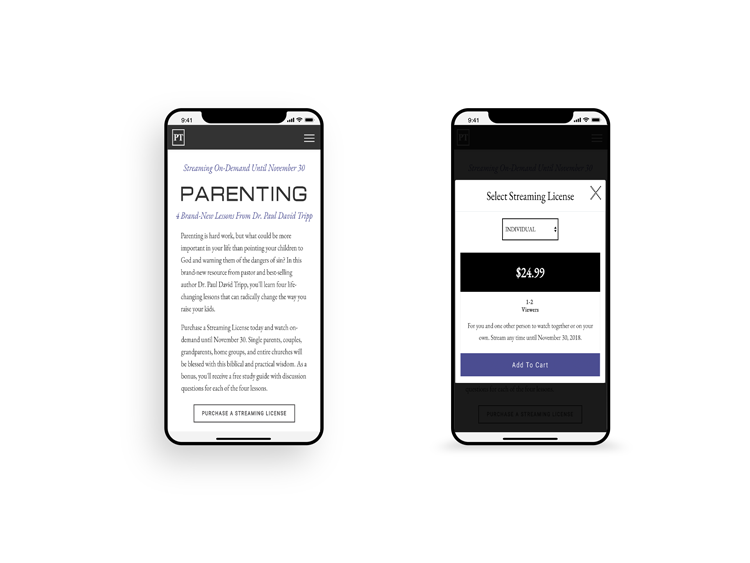
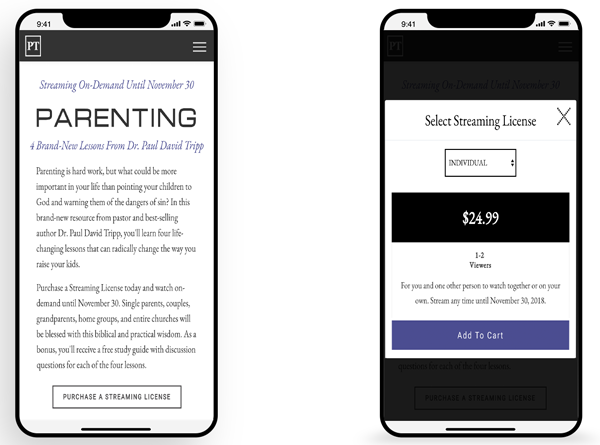
finished responsiveness, added cg work page

diff --git a/style.css b/style.css
@@ -276,7 +276,7 @@ Mobile Menu
     top: 0;
     left: 0;
     width: 100%;
-    height: 60px;
+    /* height: 60px; */
     z-index: 3;
     overflow: hidden;
   }
@@ -425,6 +425,7 @@ Mobile Menu
 #work h2 {
   font-family: 'Lora', serif;
   font-size: 20px;
+  margin-top: 10px;
 }
 
 /* #work .left {
@@ -562,14 +563,14 @@ Mobile Menu
 
 /* PT Page CSS */
 #pt-hero {
-  height: 900px;
+  height: 500px;
   background-image: url("img/pt-devices.png");
   background-position: top;
   background-size: contain;
   background-repeat: no-repeat;
   background-attachment: fixed;
   position: relative;
-  margin-top: -100px;
+  margin-top: -130px;
 }
 
 #pt-hero h1 {
@@ -584,39 +585,11 @@ Mobile Menu
   display: inline-block;
 }
 
-#about {}
-
-#about .work-box {
-  max-height: 300px;
-  display: flex;
-  justify-content: center;
-  align-items: center;
-  padding: 2em;
-  position: relative;
-  background: #252525;
-  margin: 0 auto;
-  width: 100%;
-  color: #fff;
-  height: 200px;
-}
-
-#about .work-box-details {
-  max-height: 500px;
-  display: flex;
-  justify-content: center;
-  align-items: center;
-  padding: 0 175px;
-  position: relative;
-  background: #252525;
-  margin: 0 auto;
-  width: 100%;
-  height: 400px;
-  color: #fff;
-}
-
 #mobile-display {
   background-color: #F8F8F8;
   height: 500px;
+  padding: 30px 25px;
+
 }
 
 #mobile-display .phone-div {
@@ -624,12 +597,36 @@ Mobile Menu
   margin: 0 auto;
 }
 
+/* 5tips Page CSS */
+.navbar-expand-md .navbar-nav .nav-link {
+  color: #000;
+}
+#fivetips-hero {
+  height: 500px;
+  background-image: url("img/cg-devices.png");
+  background-position: top;
+  background-size: contain;
+  background-repeat: no-repeat;
+  background-attachment: fixed;
+  position: relative;
+  margin-top: -130px;
+}
+
+#mobile-display {
+
+}
+
+
 /* Media Queries */
 /* Large devices (desktops, 992px and up) */
 @media (max-width: 992px) {}
 
 /* Medium devices (tablets, 768px and up) */
 @media (max-width: 768px) {
+  .navbar-brand img {
+    height: 50px;
+    position: fixed;
+}
   #hero h1 {
     font-size: 60px;
   }
@@ -653,6 +650,13 @@ Mobile Menu
 
   #work h2 {
     margin-bottom: 20px;
+  }
+  #mobile-display {
+    height: 400px;
+  }
+
+  #mobile-display img {
+    zoom: 80%;
   }
 }
 
@@ -686,6 +690,12 @@ Mobile Menu
   .footer-links a {
     margin-right: 0;
     text-align: center;
+  }
+  #pt-hero {
+    margin-top: -210px;
+  }
+  #mobile-display img {
+    zoom: 75%;
   }
 }
 
@@ -725,6 +735,15 @@ Mobile Menu
   #form .name-input, #form .form-email input, #form .form-text-area textarea {
     width: 350px;
   }
+  #pt-hero {
+    margin-top: -299px;
+  }
+  #mobile-display {
+    height: 300px;
+}
+  #mobile-display img {
+    zoom: 50%;
+}
 }
 
 @media (max-width: 375px) {
@@ -748,12 +767,15 @@ Mobile Menu
 
   #work h2 {
     margin-bottom: 20px;
-    font-size: 20px;
-    line-height: 26px;
+    font-size: 18px;
+    line-height: 24px;
   }
 
-  #form h1 {
+  #form .section-title {
     font-size: 23px;
+  }
+  #form p {
+    font-size: 14px;
   }
 
   #form .btn-primary, .modal {
@@ -773,6 +795,9 @@ Mobile Menu
     letter-spacing: 1px;
     line-height: 12px;
     padding: 10px 15px !important;
+  }
+  #pt-hero {
+    margin-top: -320px;
   }
 }
 
@@ -818,4 +843,13 @@ Mobile Menu
   #form .btn-primary, .modal {
     font-size: 12px;
   }
+  #pt-hero {
+    margin-top: -345px;
+}
+#mobile-display {
+    height: 245px;
+}
+#mobile-display img {
+    zoom: 40%;
+}
 }

diff --git a/index.html b/index.html
@@ -15,14 +15,14 @@
 </head>
 
 <body>
-  <section>
+  <!-- <section>
     <div class="announcement-bar">
       <div class="announcement-bar-wrapper">
         <p>Hey, I'm Haley.</p>
 
       </div>
     </div>
-  </section>
+  </section> -->
   <section id="nav">
     <div class="flex-container">
       <nav class="navbar navbar-expand-md navbar-dark nav-remove">
@@ -39,7 +39,7 @@
                 <a class="nav-link" href="index.html">Home</a>
               </li>
               <li class="nav-item">
-                <a class="nav-link" href="about.html">About Me</a>
+                <a class="nav-link" href="#work">My Work</a>
               </li>
               <!-- <li class="nav-item">
                 <a class="nav-link" href="portfolio.html">Portfolio</a>
@@ -103,10 +103,10 @@
       <div class="row">
         <div class="col-lg-6">
           <a href="pt.html"><img src="img/ptparenting.png" alt="Paul Tripp Parenting web page on multiple devices"></a>
-            <h2>Web Development</h2>
+            <h2>Web Development + Landing Page Development</h2>
         </div>
         <div class="col-lg-6">
-          <a href=""><img src="img/5tips-500.png" alt="Clint Gresham's 5 Tips landing page on multiple devices"></a>
+          <a href="5tips.html"><img src="img/5tips-500.png" alt="Clint Gresham's 5 Tips landing page on multiple devices"></a>
           <h2>Web Development + Landing Page Development</h2>
         </div>
       </div>
@@ -176,7 +176,9 @@
   <script>
     AOS.init();
   </script>
+  <script type="text/javascript" src="script.js">
 
+  </script>
 </body>
 
 </html>

diff --git a/5tips.html b/5tips.html
@@ -20,7 +20,7 @@
       <nav class="navbar navbar-expand-md navbar-dark nav-remove">
         <div class="container">
           <a class="navbar-brand" href="index.html">
-            <img src="img/HH_Logo_mark-white.png" class="img-fluid" alt="Logo Here">
+            <img src="img/HH_Logo_mark-black.png" class="img-fluid" alt="Logo Here">
           </a>
           <button class="navbar-toggler" type="button" data-toggle="collapse" data-target="#navbarNavDropdown" aria-controls="navbarNavDropdown" aria-expanded="false" aria-label="Toggle navigation">
             <span class="navbar-toggler-icon"></span>
@@ -67,7 +67,7 @@
   </section>
 
 
-  <section id="pt-hero" class="hero">
+  <section id="fivetips-hero" class="hero">
     <div class="container blanket">
     </div>
   </section>
@@ -76,7 +76,7 @@
     <div class="container about-box" data-aos="zoom-in">
       <div class="row">
         <div class="col-lg-12 box">
-          <h1>Paul Tripp Ministries || Web Development</h1>
+          <h1>Clint Gresham || Landing Page Development</h1>
         </div>
       </div>
     </div>
@@ -86,7 +86,7 @@
     <div class="container about-box" data-aos="zoom-in">
       <div class="row">
         <div class="col-lg-12 phone-div">
-          <img src="img/pt-iphone_mockup.png" alt="Paul Tripp web page on an iPhone display.">
+          <img src="img/cg-iphone_mockup.png" alt="Paul Tripp web page on an iPhone display.">
         </div>
       </div>
     </div>

diff --git a/script.js b/script.js
@@ -1,5 +1,33 @@
-$(window).resize(function(){
- If($(window).width()<769){
-  $('.float-left').removeClass('float-left');
- }
-});
+// Vanilla JavaScript Scroll to Anchor
+(function() {
+  scrollTo();
+})();
+
+function scrollTo() {
+  var links = document.getElementsByTagName('a');
+  for (var i = 0; i < links.length; i++) {
+    var link = links[i];
+    if ((link.href && link.href.indexOf('#') != -1) && ((link.pathname == location.pathname) || ('/' + link.pathname == location.pathname)) && (link.search == location.search)) {
+      link.onclick = scrollAnchors;
+    }
+  }
+}
+
+function scrollAnchors(e, respond = null) {
+  const distanceToTop = el => Math.floor(el.getBoundingClientRect().top);
+  e.preventDefault();
+  var targetID = (respond) ? respond.getAttribute('href') : this.getAttribute('href');
+  const targetAnchor = document.querySelector(targetID);
+  if (!targetAnchor) return;
+  const originalTop = distanceToTop(targetAnchor);
+  window.scrollBy({ top: originalTop, left: 0, behavior: 'smooth' });
+  const checkIfDone = setInterval(function() {
+    const atBottom = window.innerHeight + window.pageYOffset >= document.body.offsetHeight - 2;
+    if (distanceToTop(targetAnchor) === 0 || atBottom) {
+      targetAnchor.tabIndex = '-1';
+      targetAnchor.focus();
+      window.history.pushState('', '', targetID);
+      clearInterval(checkIfDone);
+    }
+  }, 100);
+}
